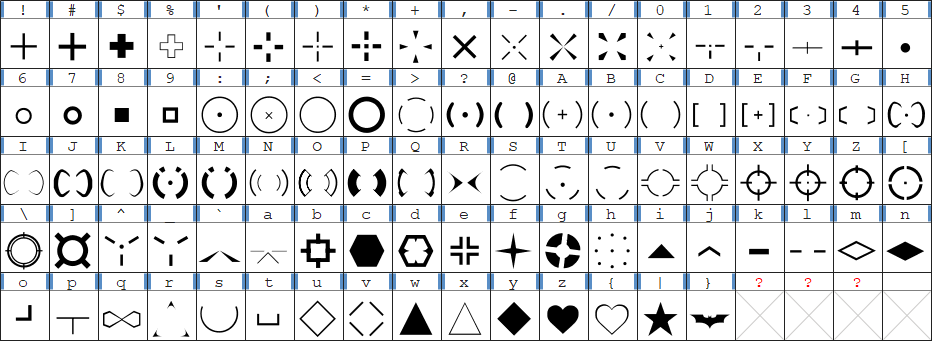
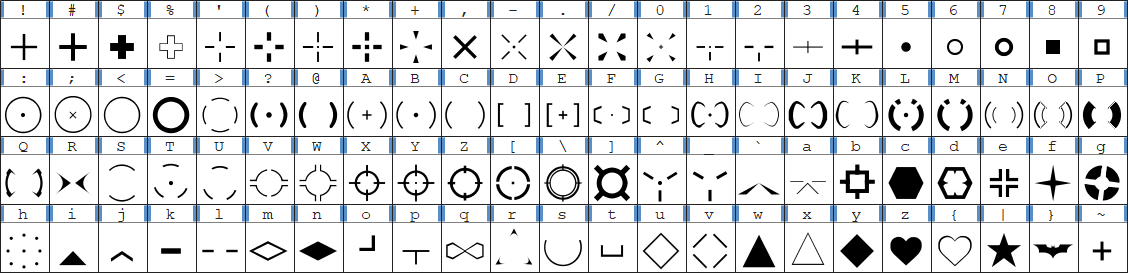
Updated crosshairs screenshot

diff --git a/README.md b/README.md
@@ -28,11 +28,13 @@ Huds are known for slowing down the game load times when a lot of font definitio
 ## Credits
 - **Fog** for [Fog Crosshair](https://www.teamfortress.tv/14702/release-fogs-crosshairs-v3)
 - **Pete** for [KnucklesCrosses](https://www.teamfortress.tv/26790/official-knucklescrosses-release)
-- **Broesel** for BroeselHUD Crosshairs
-- **Whayay** for Yahud Crosshairs
+- **Broesel** for [BroeselHUD Crosshairs](https://sourceforge.net/projects/broeselhud)
+- **Whayay** for [Yahud Crosshairs](https://github.com/whayay/yahud)
 - **Griever** for [ToonHud Crosshairs](https://toonhud.com/)
 - **Seeker** for Seekers Crosshair
+- **Garm3n** for wings Crosshairs
 
 ## Special Thanks
+- [**Whisker**](https://github.com/rbjaxter)
 - [**omnibombulator**](https://github.com/omnibombulator)
 - [**JarateKing**](https://github.com/JarateKing)
